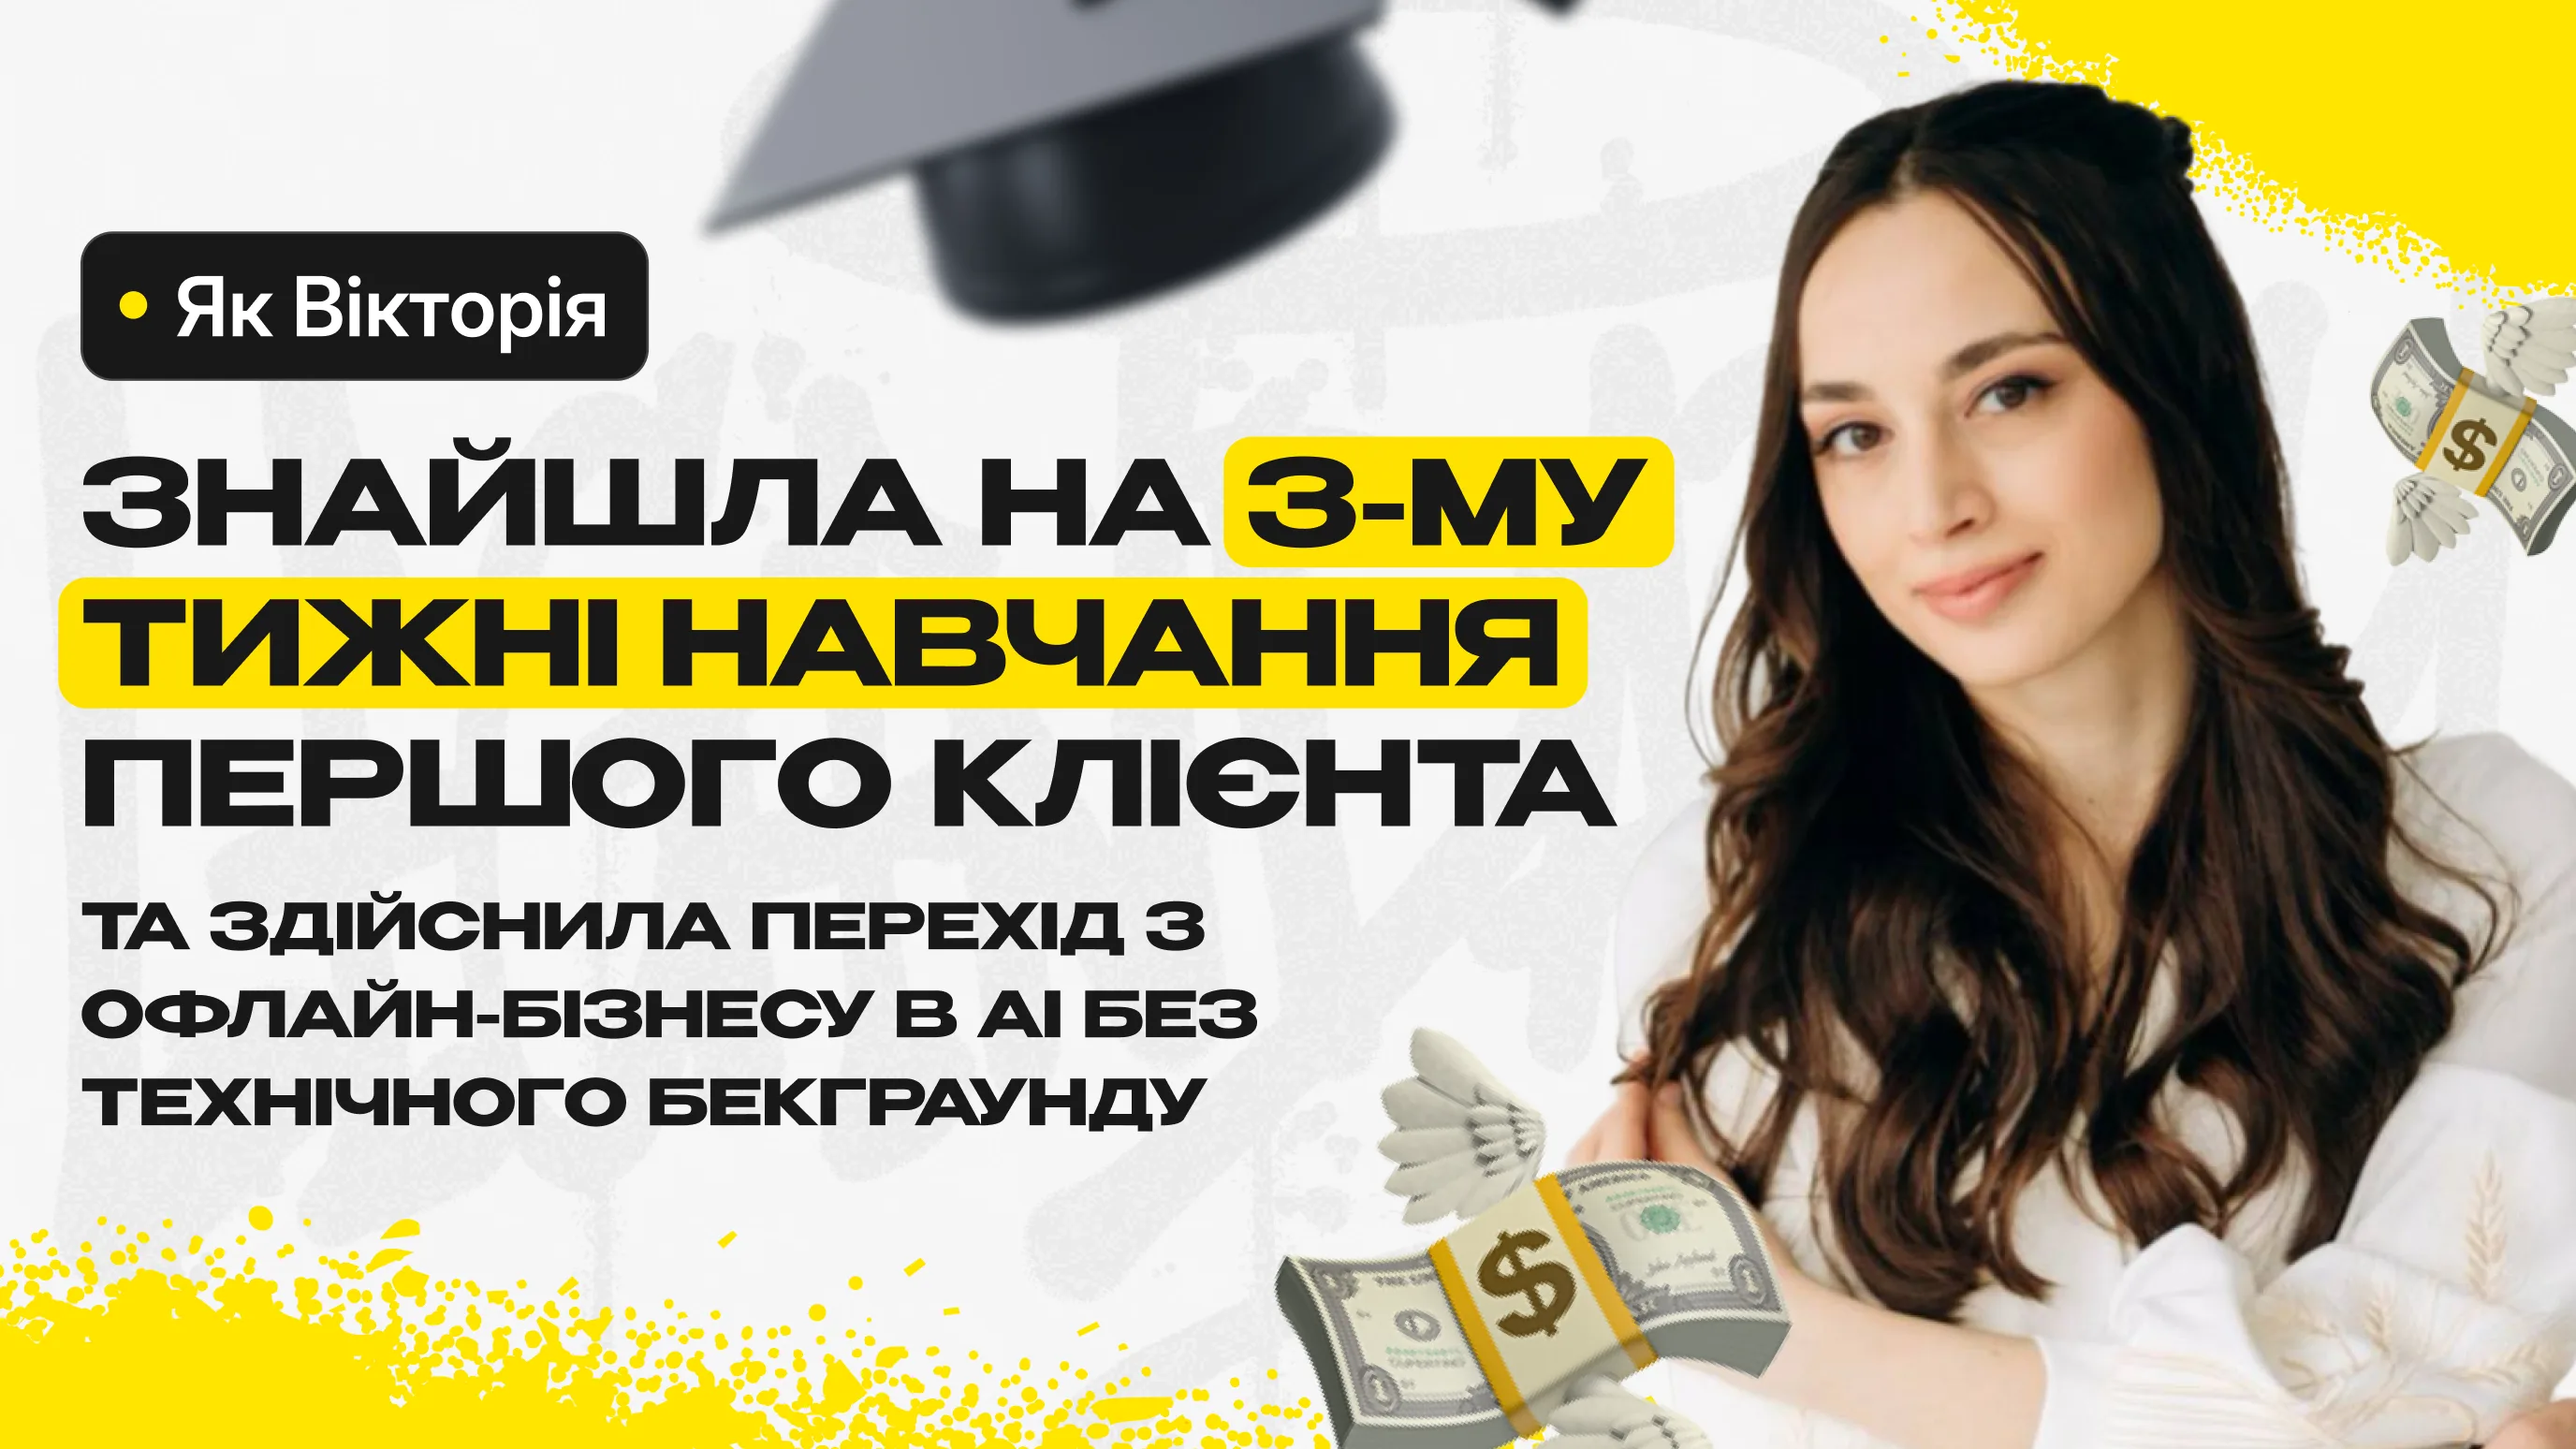
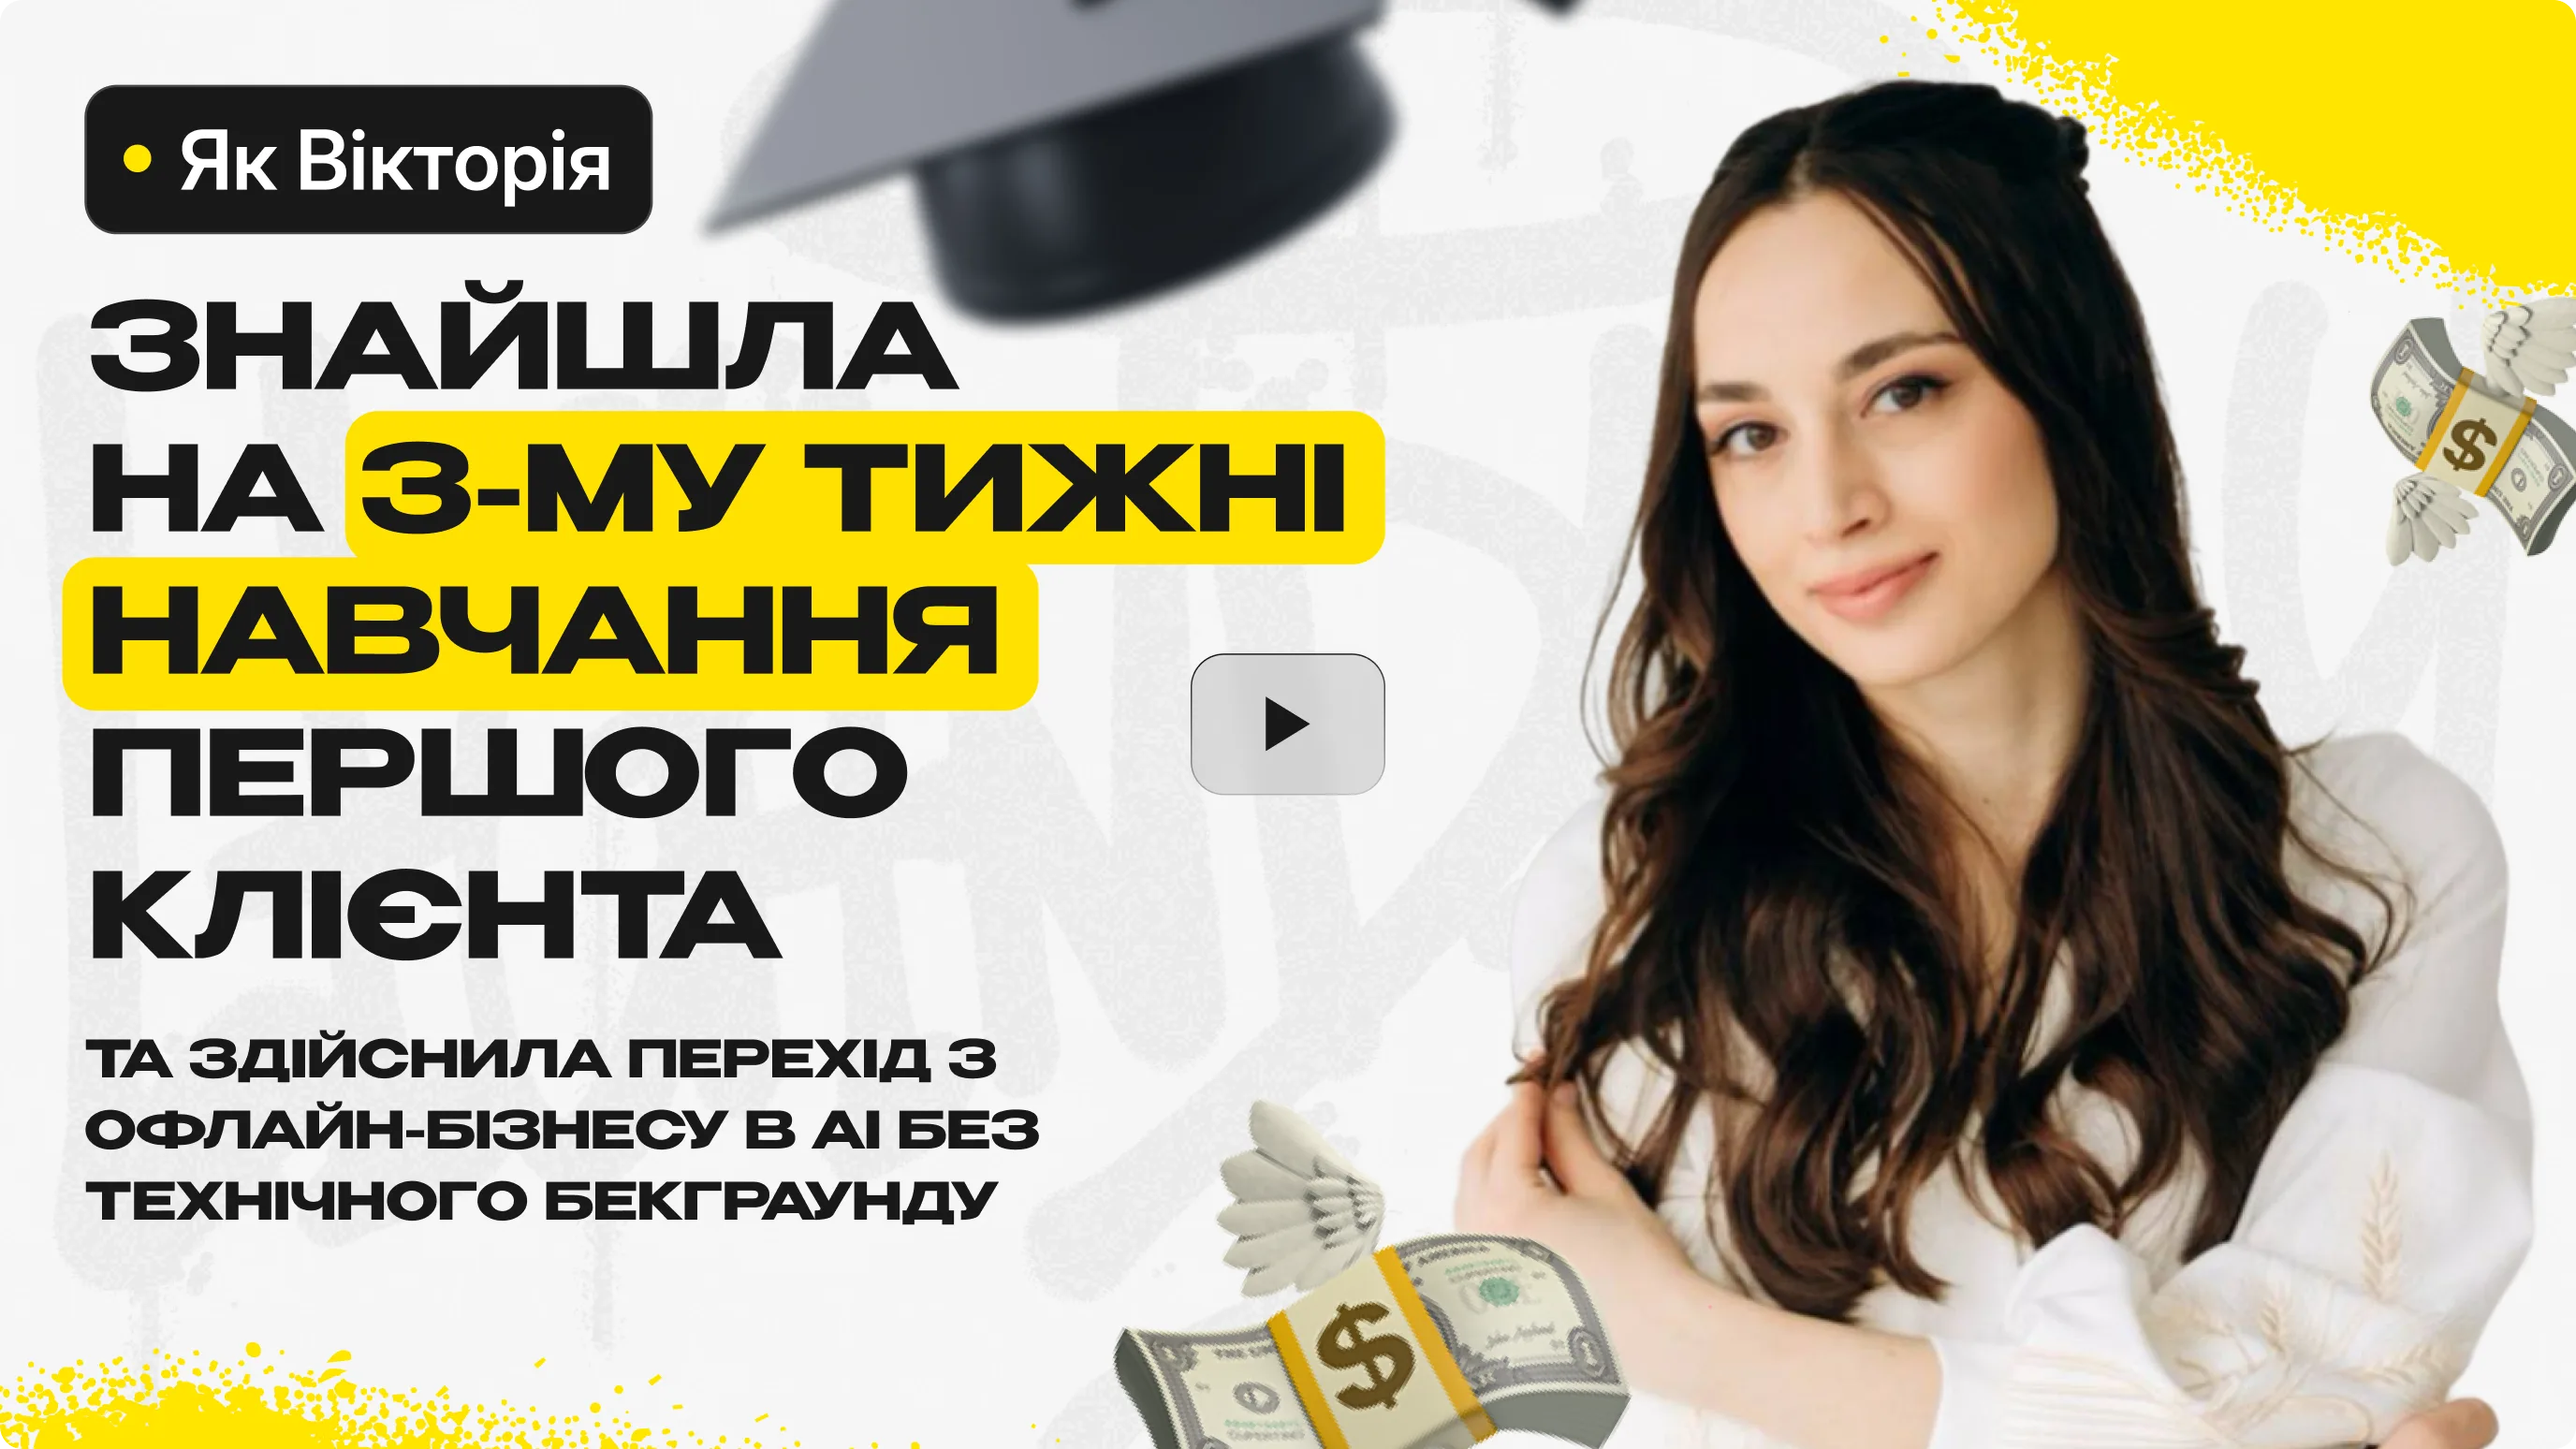
Add files via upload

diff --git a/0701/index.html b/0701/index.html
@@ -91,7 +91,7 @@
                 <iframe
                         id="promo-video"
                         title="vimeo-player"
-                        src="https://player.vimeo.com/video/00000000?h=09b7dbb658&muted=0&controls=1&title=0&byline=0&portrait=0&playsinline=1"
+                        src="https://player.vimeo.com/video/1152196707?h=d11ca664d5&muted=0&controls=1&title=0&byline=0&portrait=0&playsinline=1"
                         allow="autoplay; fullscreen; picture-in-picture"
                         allowfullscreen
                 ></iframe>

diff --git a/0701/index.js b/0701/index.js
@@ -163,8 +163,8 @@ document.addEventListener("DOMContentLoaded", function () {
             fbq("track", "Lead", {}, { eventID: eid });
         }
 
-        const baseUrl = "https://t.me/vladushakovai_bot";
-        const startParam = "694594ab2d96711ae80d4014";
+        const baseUrl = "https://t.me/+O6rRHbF6Yy42ZjBi";
+        const startParam = "";
 
         const getUTM = key => encodeURIComponent(localStorage.getItem(key) || "");
 

diff --git a/0701/style.css b/0701/style.css
@@ -1117,6 +1117,16 @@ section.author .content  > .right .partners .wrapper img {
     section.hero a {
         padding: 1rem;
     }
+    .video-wrapper .play-btn {
+        width: 4rem;
+        padding: .5rem 1rem;
+        border-radius: 8px;
+    }
+    .video-wrapper .play-btn img {
+        width: 1rem;
+        height: auto;
+        min-width: 1rem;
+    }
 }
 @media only screen and (max-width: 600px) {
     html {
